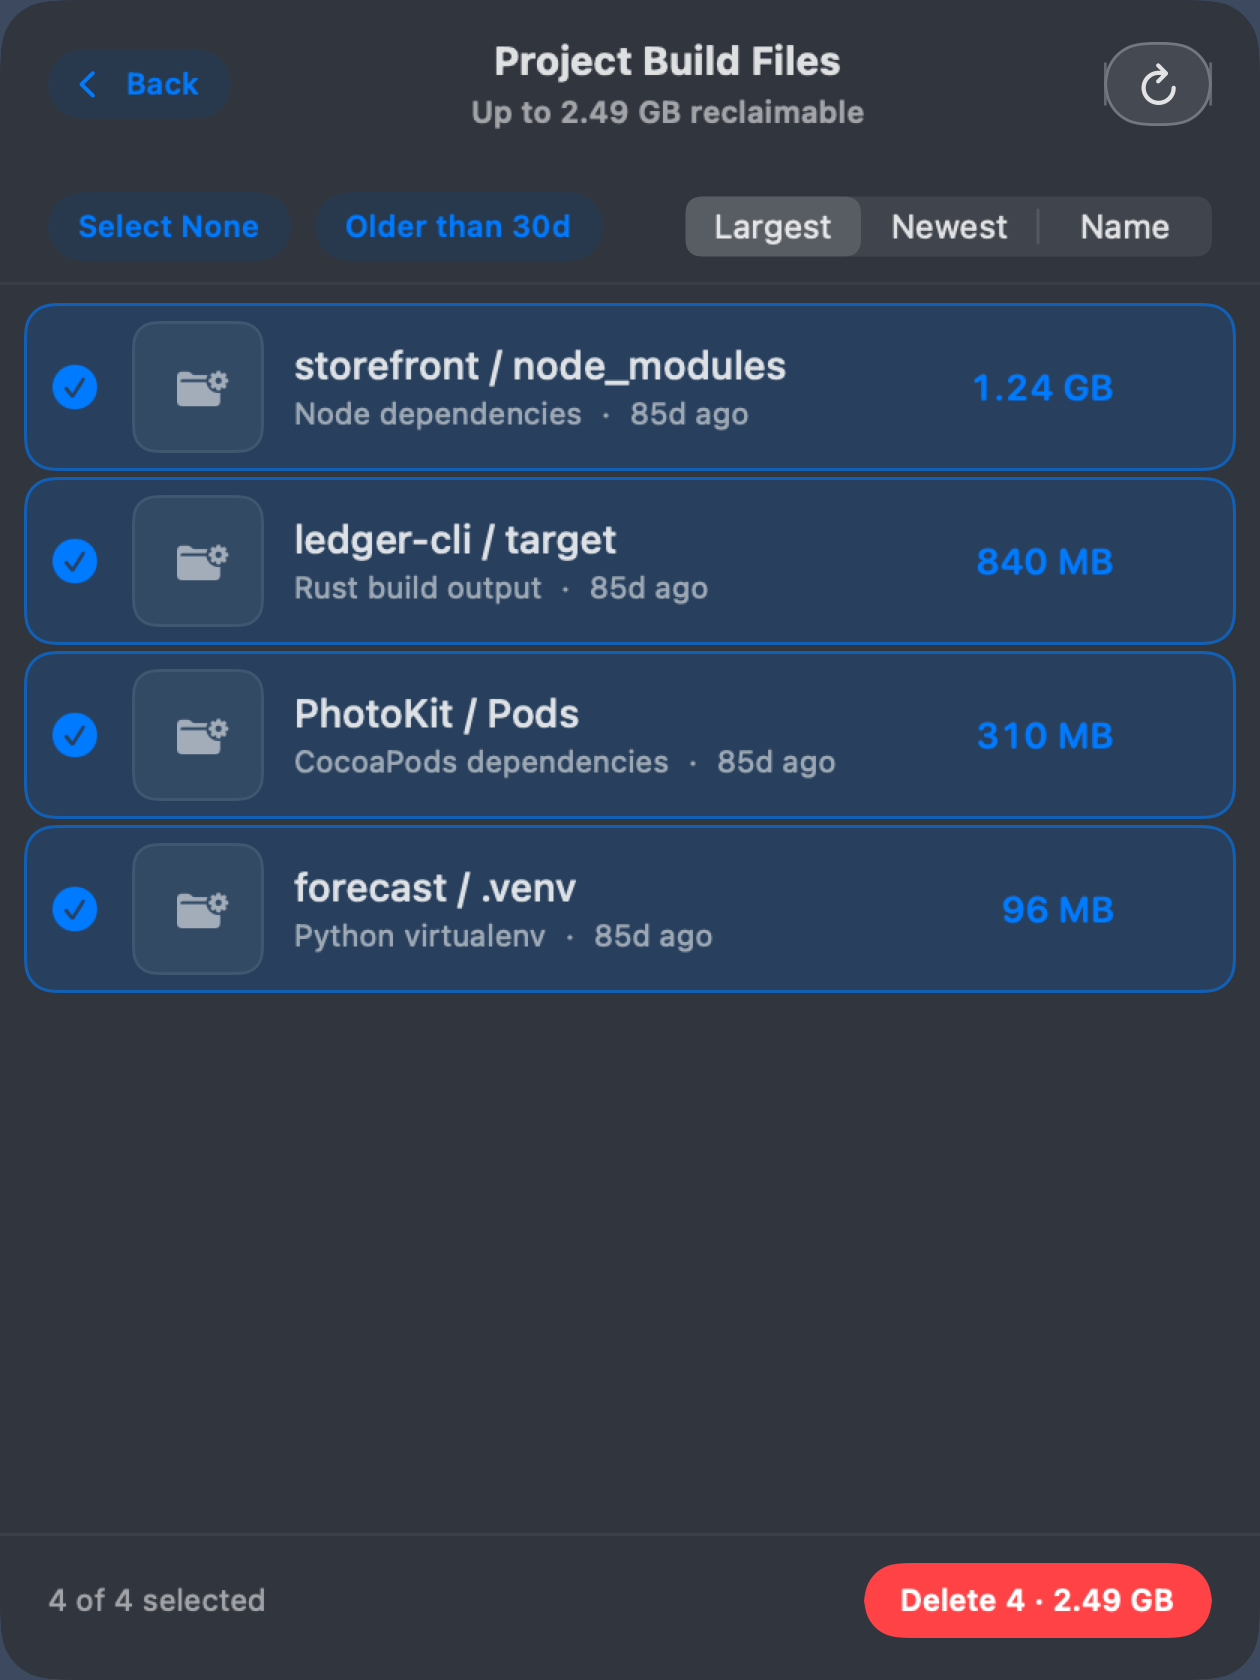
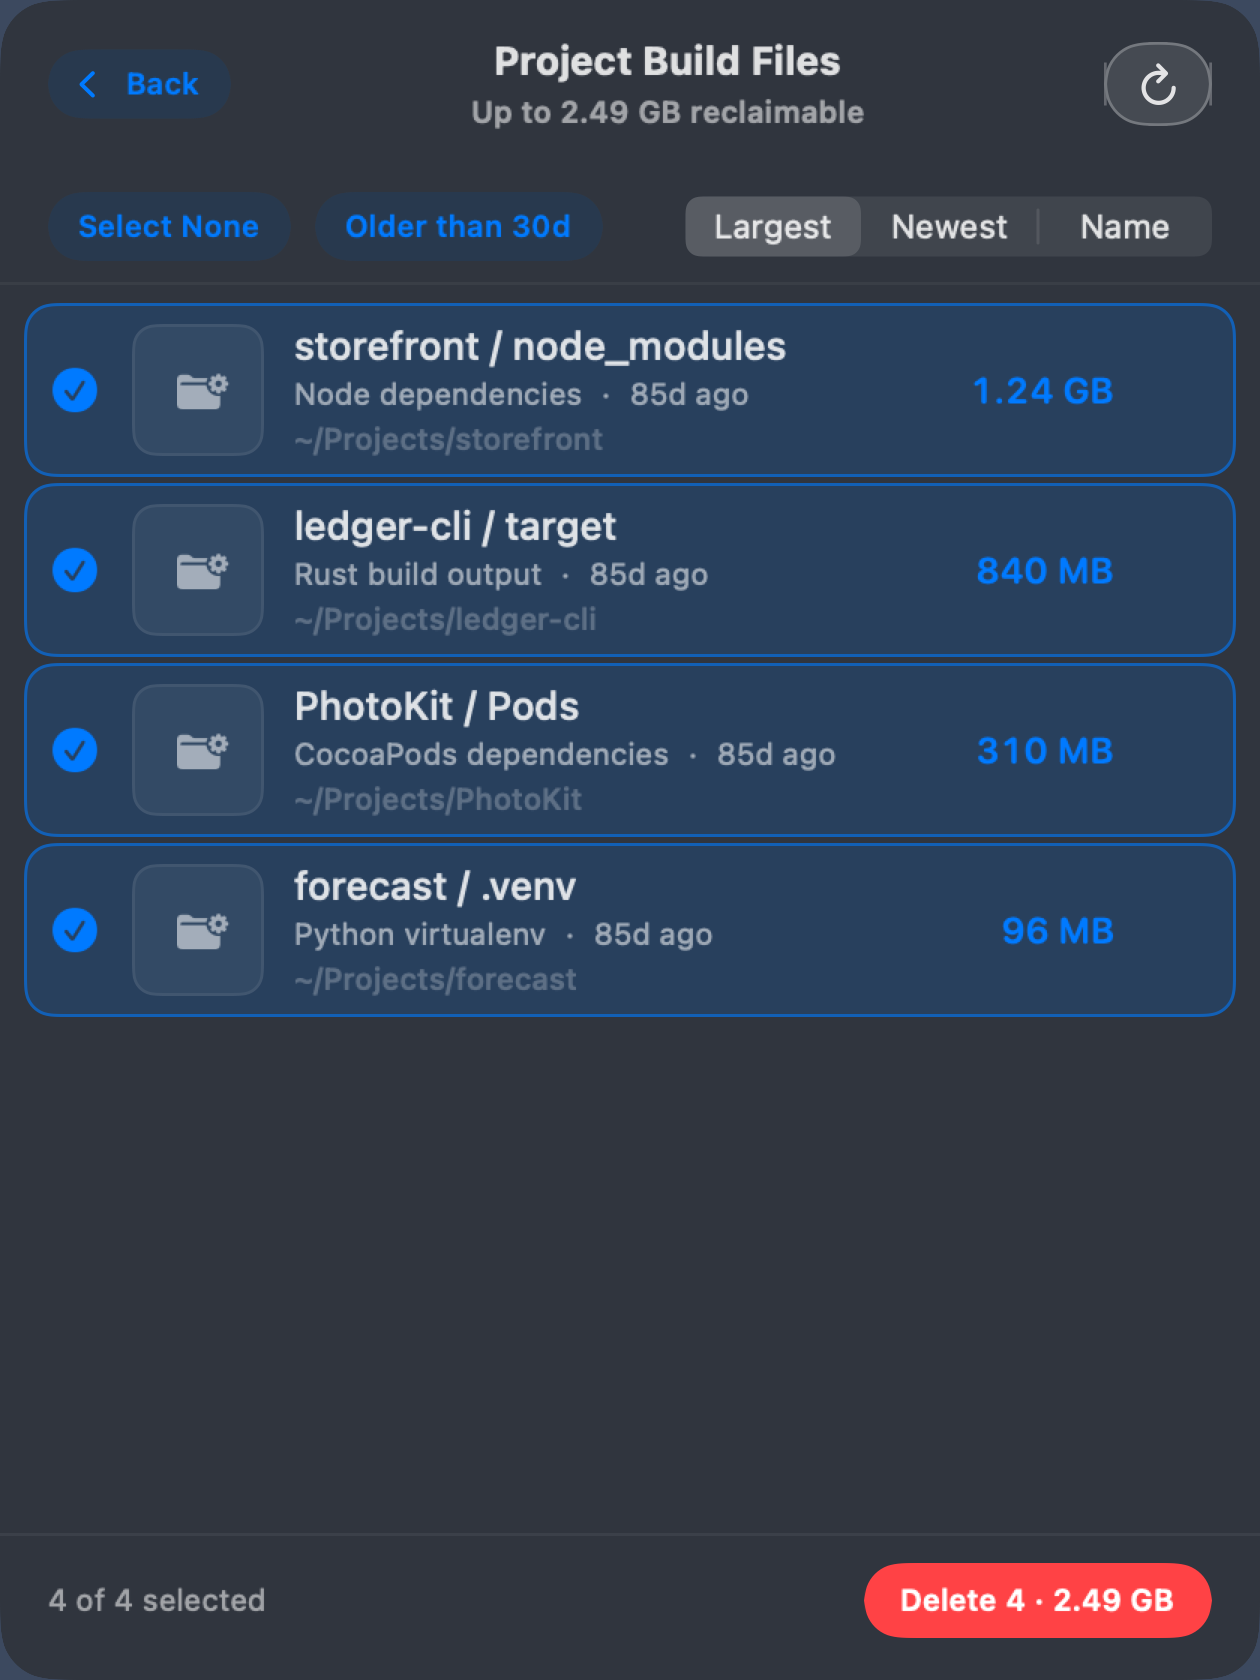
Show the project path on build-file rows, and trim comments
Two projects can share a name, so the row now carries the tilde-abbreviated
parent path under the build type, and the accessibility label says where the
folder is.

Comments cut back to the handful that record a trap rather than restate the
code or explain the design.

diff --git a/SpaceBar/Services/BuildArtifactScanner.swift b/SpaceBar/Services/BuildArtifactScanner.swift
@@ -1,18 +1,9 @@
 import Foundation
 
-/// Finds regenerable build and dependency folders inside the code you keep on disk.
-///
-/// The walk is deliberately shallow and stops at the first artifact it finds on a branch: there is
-/// no point descending into `node_modules` to find the `node_modules` inside it, and not descending
-/// is what keeps a full-home scan to seconds rather than minutes.
 enum BuildArtifactScanner {
-    /// Anything smaller is noise in a list meant for reclaiming space — a `__pycache__` holding
-    /// 40 KB costs more attention than it returns.
     static let minimumBytes: UInt64 = 10_000_000
-    /// Depth below each search root. Five levels reaches `~/Code/work/client/app/node_modules`.
     static let maximumDepth = 5
-    /// Sizing each folder costs a `du`, so the walk stops collecting once the list is long enough
-    /// to be worth reviewing.
+    /// Each candidate costs a `du`, so collection stops here rather than sizing the whole disk.
     static let maximumResults = 300
 
     private struct Candidate {
@@ -32,9 +23,6 @@ enum BuildArtifactScanner {
             .sorted { $0.byteSize > $1.byteSize }
     }
 
-    /// Every non-hidden folder in the home folder except the ones macOS owns. Code lives in
-    /// `~/Projects` for some people and `~/Documents/work` for others, so the roots are discovered
-    /// rather than guessed.
     static func searchRoots() -> [URL] {
         let home = FileManager.default.homeDirectoryForCurrentUser
         let skipped: Set = [
@@ -81,8 +69,7 @@ enum BuildArtifactScanner {
     private static func matchingRule(for url: URL, siblingNames: Set<String>) -> BuildArtifactRule? {
         let rules = BuildArtifactRule.rule(forDirectoryNamed: url.lastPathComponent)
         guard !rules.isEmpty else { return nil }
-        // Listing the folder is only needed by rules that look inside it (a virtualenv's
-        // pyvenv.cfg), and listing something like node_modules is not free.
+        // Only content-marker rules need this, and listing node_modules is not free.
         var contents: Set<String>?
         let contentNames = {
             if let contents {
@@ -110,8 +97,7 @@ enum BuildArtifactScanner {
         return values.isDirectory == true && values.isSymbolicLink != true
     }
 
-    /// Bundles look like folders and never hold projects; hidden folders are skipped unless a rule
-    /// already claimed them above, so `.git` and `.vscode` cost nothing.
+    /// Hidden folders are only skipped here — a rule matching one has already claimed it above.
     private static func isSkippedBranch(_ url: URL) -> Bool {
         let name = url.lastPathComponent
         if name.hasPrefix(".") {

diff --git a/SpaceBar/Models/BuildArtifactRule.swift b/SpaceBar/Models/BuildArtifactRule.swift
@@ -1,21 +1,11 @@
 import Foundation
 
-/// One kind of regenerable folder a project leaves behind.
-///
-/// Folder names alone are ambiguous — plenty of people keep a `build` or `dist` folder that is
-/// hand-made and precious. A rule therefore also names the file that proves a real project owns
-/// the folder (`package.json` next to `node_modules`, `Cargo.toml` next to `target`), so the scan
-/// only offers folders a tool can put back.
 struct BuildArtifactRule: Equatable {
-    /// Folder to match, compared case-insensitively.
     let directoryName: String
-    /// One of these must sit beside the folder for it to count. Empty means the name is proof enough.
+    /// Empty means the folder name alone qualifies it.
     let siblingMarkers: [String]
-    /// One of these must sit inside the folder itself. Empty means no such requirement.
     let contentMarkers: [String]
-    /// What the row calls it — "Node dependencies" reads better than "node_modules".
     let label: String
-    /// What brings it back, so the panel can say why removing it is safe.
     let regenerationNote: String
 
     init(
@@ -32,7 +22,6 @@ struct BuildArtifactRule: Equatable {
         self.regenerationNote = regenerationNote
     }
 
-    /// Markers may be exact names (`Cargo.toml`) or a suffix wildcard (`*.xcodeproj`).
     static func marker(_ marker: String, matchesAnyOf names: Set<String>) -> Bool {
         if marker.hasPrefix("*") {
             let suffix = marker.dropFirst().lowercased()
@@ -58,8 +47,7 @@ struct BuildArtifactRule: Equatable {
 }
 
 extension BuildArtifactRule {
-    /// Ordered: the first rule whose markers match wins, so `target` beside `Cargo.toml` reads as
-    /// Rust output while `target` beside `pom.xml` reads as Maven output.
+    /// Order matters: the first rule whose markers match wins.
     static let all: [BuildArtifactRule] = javaScriptRules + appleRules + jvmRules + systemsRules + scriptingRules
 
     private static let javaScriptRules: [BuildArtifactRule] = [
@@ -307,8 +295,6 @@ extension BuildArtifactRule {
         )
     ]
 
-    /// The delete guard checks names against this rather than trusting whatever the UI hands it,
-    /// so a stale row can never remove a folder the scanner would not have offered.
     static let knownDirectoryNames: Set<String> = Set(all.map { $0.directoryName.lowercased() })
 
     static func rule(forDirectoryNamed name: String) -> [BuildArtifactRule] {

diff --git a/SpaceBar/Models/ReviewableFile.swift b/SpaceBar/Models/ReviewableFile.swift
@@ -36,8 +36,6 @@ enum ReviewableFileKind: String, Equatable, Identifiable {
         rawValue
     }
 
-    /// Build artifacts carry the tool's own name in ``ReviewableFile/detailLabel`` ("Node
-    /// dependencies"); this is the fallback when a row has none.
     var label: String {
         switch self {
         case .screenshot: "Screenshot"
@@ -56,8 +54,6 @@ enum ReviewableFileKind: String, Equatable, Identifiable {
         }
     }
 
-    /// Folders are removed recursively and are re-created by a tool, so they take a different
-    /// delete guard from the single files the other kinds point at.
     var isDirectory: Bool {
         self == .buildArtifact
     }
@@ -132,8 +128,6 @@ enum ReviewableFileCategory: String, Equatable, CaseIterable {
         }
     }
 
-    /// What the confirmation adds under the byte count. Media and installers are gone for good;
-    /// build folders are gone until the next build.
     var deleteReassurance: String {
         switch self {
         case .screenshotsAndRecordings, .installerPackages:
@@ -143,7 +137,7 @@ enum ReviewableFileCategory: String, Equatable, CaseIterable {
         }
     }
 
-    /// Shares the cleanup targets' exclusion list, so one Settings section switches off any scan.
+    /// Namespaced because it shares `excludedTargetIDs` with the cleanup targets.
     var settingsID: String {
         "review-\(rawValue)"
     }
@@ -155,12 +149,8 @@ struct ReviewableFile: Identifiable, Equatable, Hashable {
     let kind: ReviewableFileKind
     let byteSize: UInt64
     let modified: Date
-    /// Folder names like `build` and `node_modules` repeat across every project, so a build
-    /// artifact row leads with the project that owns it.
     var projectName: String?
-    /// What the tool calls this folder — "Node dependencies" rather than the kind's generic label.
     var detailLabel: String?
-    /// What puts the folder back, shown so the choice to delete is an informed one.
     var regenerationNote: String?
 
     var name: String {
@@ -174,6 +164,11 @@ struct ReviewableFile: Identifiable, Equatable, Hashable {
 
     var subtitleLabel: String {
         detailLabel ?? kind.label
+    }
+
+    var locationLabel: String? {
+        guard projectName != nil else { return nil }
+        return (url.deletingLastPathComponent().path as NSString).abbreviatingWithTildeInPath
     }
 
     var sizeLabel: String {

diff --git a/SpaceBarTests/BuildArtifactScannerTests.swift b/SpaceBarTests/BuildArtifactScannerTests.swift
@@ -29,14 +29,12 @@ final class BuildArtifactScannerTests: XCTestCase {
         XCTAssertEqual(artifact.displayName, "storefront / node_modules")
     }
 
-    /// A hand-made `build` folder with no project around it is somebody's own work, not output.
     func testIgnoresArtifactNameWithoutAProjectMarker() throws {
         try makeProject("notes", marker: "readme.txt", artifact: "build")
 
         XCTAssertTrue(BuildArtifactScanner.scan(roots: [root], minimumBytes: 0).isEmpty)
     }
 
-    /// Same folder name, different toolchain: the marker beside it decides what the row says.
     func testMarkerPicksBetweenRulesSharingADirectoryName() throws {
         try makeProject("engine", marker: "Cargo.toml", artifact: "target")
         try makeProject("service", marker: "pom.xml", artifact: "target")
@@ -48,7 +46,6 @@ final class BuildArtifactScannerTests: XCTestCase {
         XCTAssertEqual(labels["service"], "Maven build output")
     }
 
-    /// `venv` only counts when it actually holds a virtualenv.
     func testContentMarkerIsRequiredForVirtualenvs() throws {
         let project = try makeProject("forecast", marker: "requirements.txt", artifact: ".venv")
         XCTAssertTrue(BuildArtifactScanner.scan(roots: [root], minimumBytes: 0).isEmpty)
@@ -59,8 +56,6 @@ final class BuildArtifactScannerTests: XCTestCase {
         XCTAssertEqual(BuildArtifactScanner.scan(roots: [root], minimumBytes: 0).count, 1)
     }
 
-    /// Nested `node_modules` are inside the folder that already got offered, so listing them
-    /// separately would double-count the same bytes.
     func testDoesNotDescendIntoAMatchedArtifact() throws {
         let project = try makeProject("monorepo", marker: "package.json", artifact: "node_modules")
         let nested = project.appendingPathComponent("node_modules/left-pad", isDirectory: true)

diff --git a/SpaceBar/Views/ReviewableFileRow.swift b/SpaceBar/Views/ReviewableFileRow.swift
@@ -45,16 +45,17 @@ struct ReviewableFileRow: View {
     }
 
     private var accessibilityLabel: String {
-        "\(file.displayName), \(file.subtitleLabel), \(file.sizeLabel), \(file.relativeAgeLabel)"
+        var parts = [file.displayName, file.subtitleLabel, file.sizeLabel, file.relativeAgeLabel]
+        if let location = file.locationLabel {
+            parts.append("in \(location)")
+        }
+        return parts.joined(separator: ", ")
     }
 
-    /// The tooltip carries what the row has no room for: where the folder is and what puts it back.
     private var helpText: String {
-        var lines = [file.url.path]
-        if let note = file.regenerationNote {
-            lines.append(note)
-        }
-        return lines.joined(separator: "\n")
+        [file.url.path, file.regenerationNote]
+            .compactMap { $0 }
+            .joined(separator: "\n")
     }
 
     private var backgroundTint: Color {
@@ -92,6 +93,14 @@ struct ReviewableFileRow: View {
                 .font(.caption)
                 .foregroundStyle(.secondary)
                 .lineLimit(1)
+
+                if let location = file.locationLabel {
+                    Text(location)
+                        .font(.caption2)
+                        .foregroundStyle(.tertiary)
+                        .lineLimit(1)
+                        .truncationMode(.head)
+                }
             }
 
             Spacer(minLength: 8)

diff --git a/SpaceBar/Services/DeletePathGuard.swift b/SpaceBar/Services/DeletePathGuard.swift
@@ -105,10 +105,6 @@ enum DeletePathGuard {
         }
     }
 
-    /// Build artifacts are the one place SpaceBar removes a whole folder tree the user owns, so the
-    /// guard re-derives the decision from the path instead of trusting the row: it has to be a real
-    /// folder, inside the home folder but outside `~/Library`, at least two levels down, and named
-    /// something a scanner rule would have matched.
     static func validateForBuildArtifactDelete(_ url: URL) throws {
         if isForbiddenRoot(url) {
             throw Refusal.forbiddenRoot
@@ -125,7 +121,7 @@ enum DeletePathGuard {
         guard BuildArtifactRule.knownDirectoryNames.contains(standardized.lastPathComponent.lowercased()) else {
             throw Refusal.notAllowlisted
         }
-        // A project's artifact folder always sits inside a project folder, never straight in home.
+        // An artifact sits inside a project folder, never straight in home.
         let depthBelowHome = path.dropFirst(homePath.count).split(separator: "/").count
         guard depthBelowHome >= 2 else {
             throw Refusal.notAllowlisted

diff --git a/SpaceBar/Services/ReviewableFilesCoordinator.swift b/SpaceBar/Services/ReviewableFilesCoordinator.swift
@@ -5,8 +5,6 @@ import Foundation
 final class ReviewableFilesCoordinator: ObservableObject {
     let stores: [ReviewableFilesStore]
 
-    /// Categories switched off in Settings, sharing the cleanup targets' exclusion list. Skipped
-    /// before the scan, so unticking the project walk actually makes opening the panel faster.
     @Published var excludedIDs: Set<String> = [] {
         didSet {
             for store in stores where excludedIDs.contains(store.category.settingsID) {
@@ -26,7 +24,6 @@ final class ReviewableFilesCoordinator: ObservableObject {
         }
     }
 
-    /// The categories the panel lists and scans — everything except what Settings switched off.
     var activeStores: [ReviewableFilesStore] {
         stores.filter { !excludedIDs.contains($0.category.settingsID) }
     }

diff --git a/SpaceBarTests/PanelSnapshotTests.swift b/SpaceBarTests/PanelSnapshotTests.swift
@@ -298,8 +298,7 @@ final class PanelSnapshotTests: XCTestCase {
         settings: AppSettings? = nil
     ) -> NSView {
         let settings = settings ?? SnapshotFixtures.settings()
-        // Opening the panel normally kicks off a real scan of this machine, which would replace the
-        // fixture rows with whatever the recording host happens to have on disk.
+        // Otherwise a real scan of the recording host replaces the fixture rows mid-snapshot.
         settings.rescanOnOpen = false
         let monitor = SnapshotFixtures.diskMonitor(for: freeSpaceCase, settings: settings)
         let store = SnapshotFixtures.cleanupStore()

diff --git a/SpaceBar/Services/ReviewableFileScanner.swift b/SpaceBar/Services/ReviewableFileScanner.swift
@@ -2,8 +2,6 @@ import Foundation
 
 enum ReviewableFileScanner {
     static func scan(category: ReviewableFileCategory) -> [ReviewableFile] {
-        // Build files are folders found by walking projects, not files matched by name in a
-        // handful of known directories, so that scan is its own thing.
         if category == .projectBuildFiles {
             return BuildArtifactScanner.scan()
         }

diff --git a/SpaceBarTests/DeletePathGuardTests.swift b/SpaceBarTests/DeletePathGuardTests.swift
@@ -1,8 +1,6 @@
 import XCTest
 @testable import SpaceBar
 
-/// The guard is the last thing standing between a stale row and somebody's source tree, so it is
-/// tested against the paths a bug would most plausibly hand it.
 final class DeletePathGuardTests: XCTestCase {
     private var home: URL!
     private var project: URL!

diff --git a/SpaceBar/Services/ReviewableFilesStore.swift b/SpaceBar/Services/ReviewableFilesStore.swift
@@ -126,7 +126,6 @@ final class ReviewableFilesStore: ObservableObject {
         showBrowser = false
     }
 
-    /// Switched off in Settings: drop what the last scan found so the panel stops counting it.
     func clearForExclusion() {
         scanTask?.cancel()
         scanGeneration += 1
